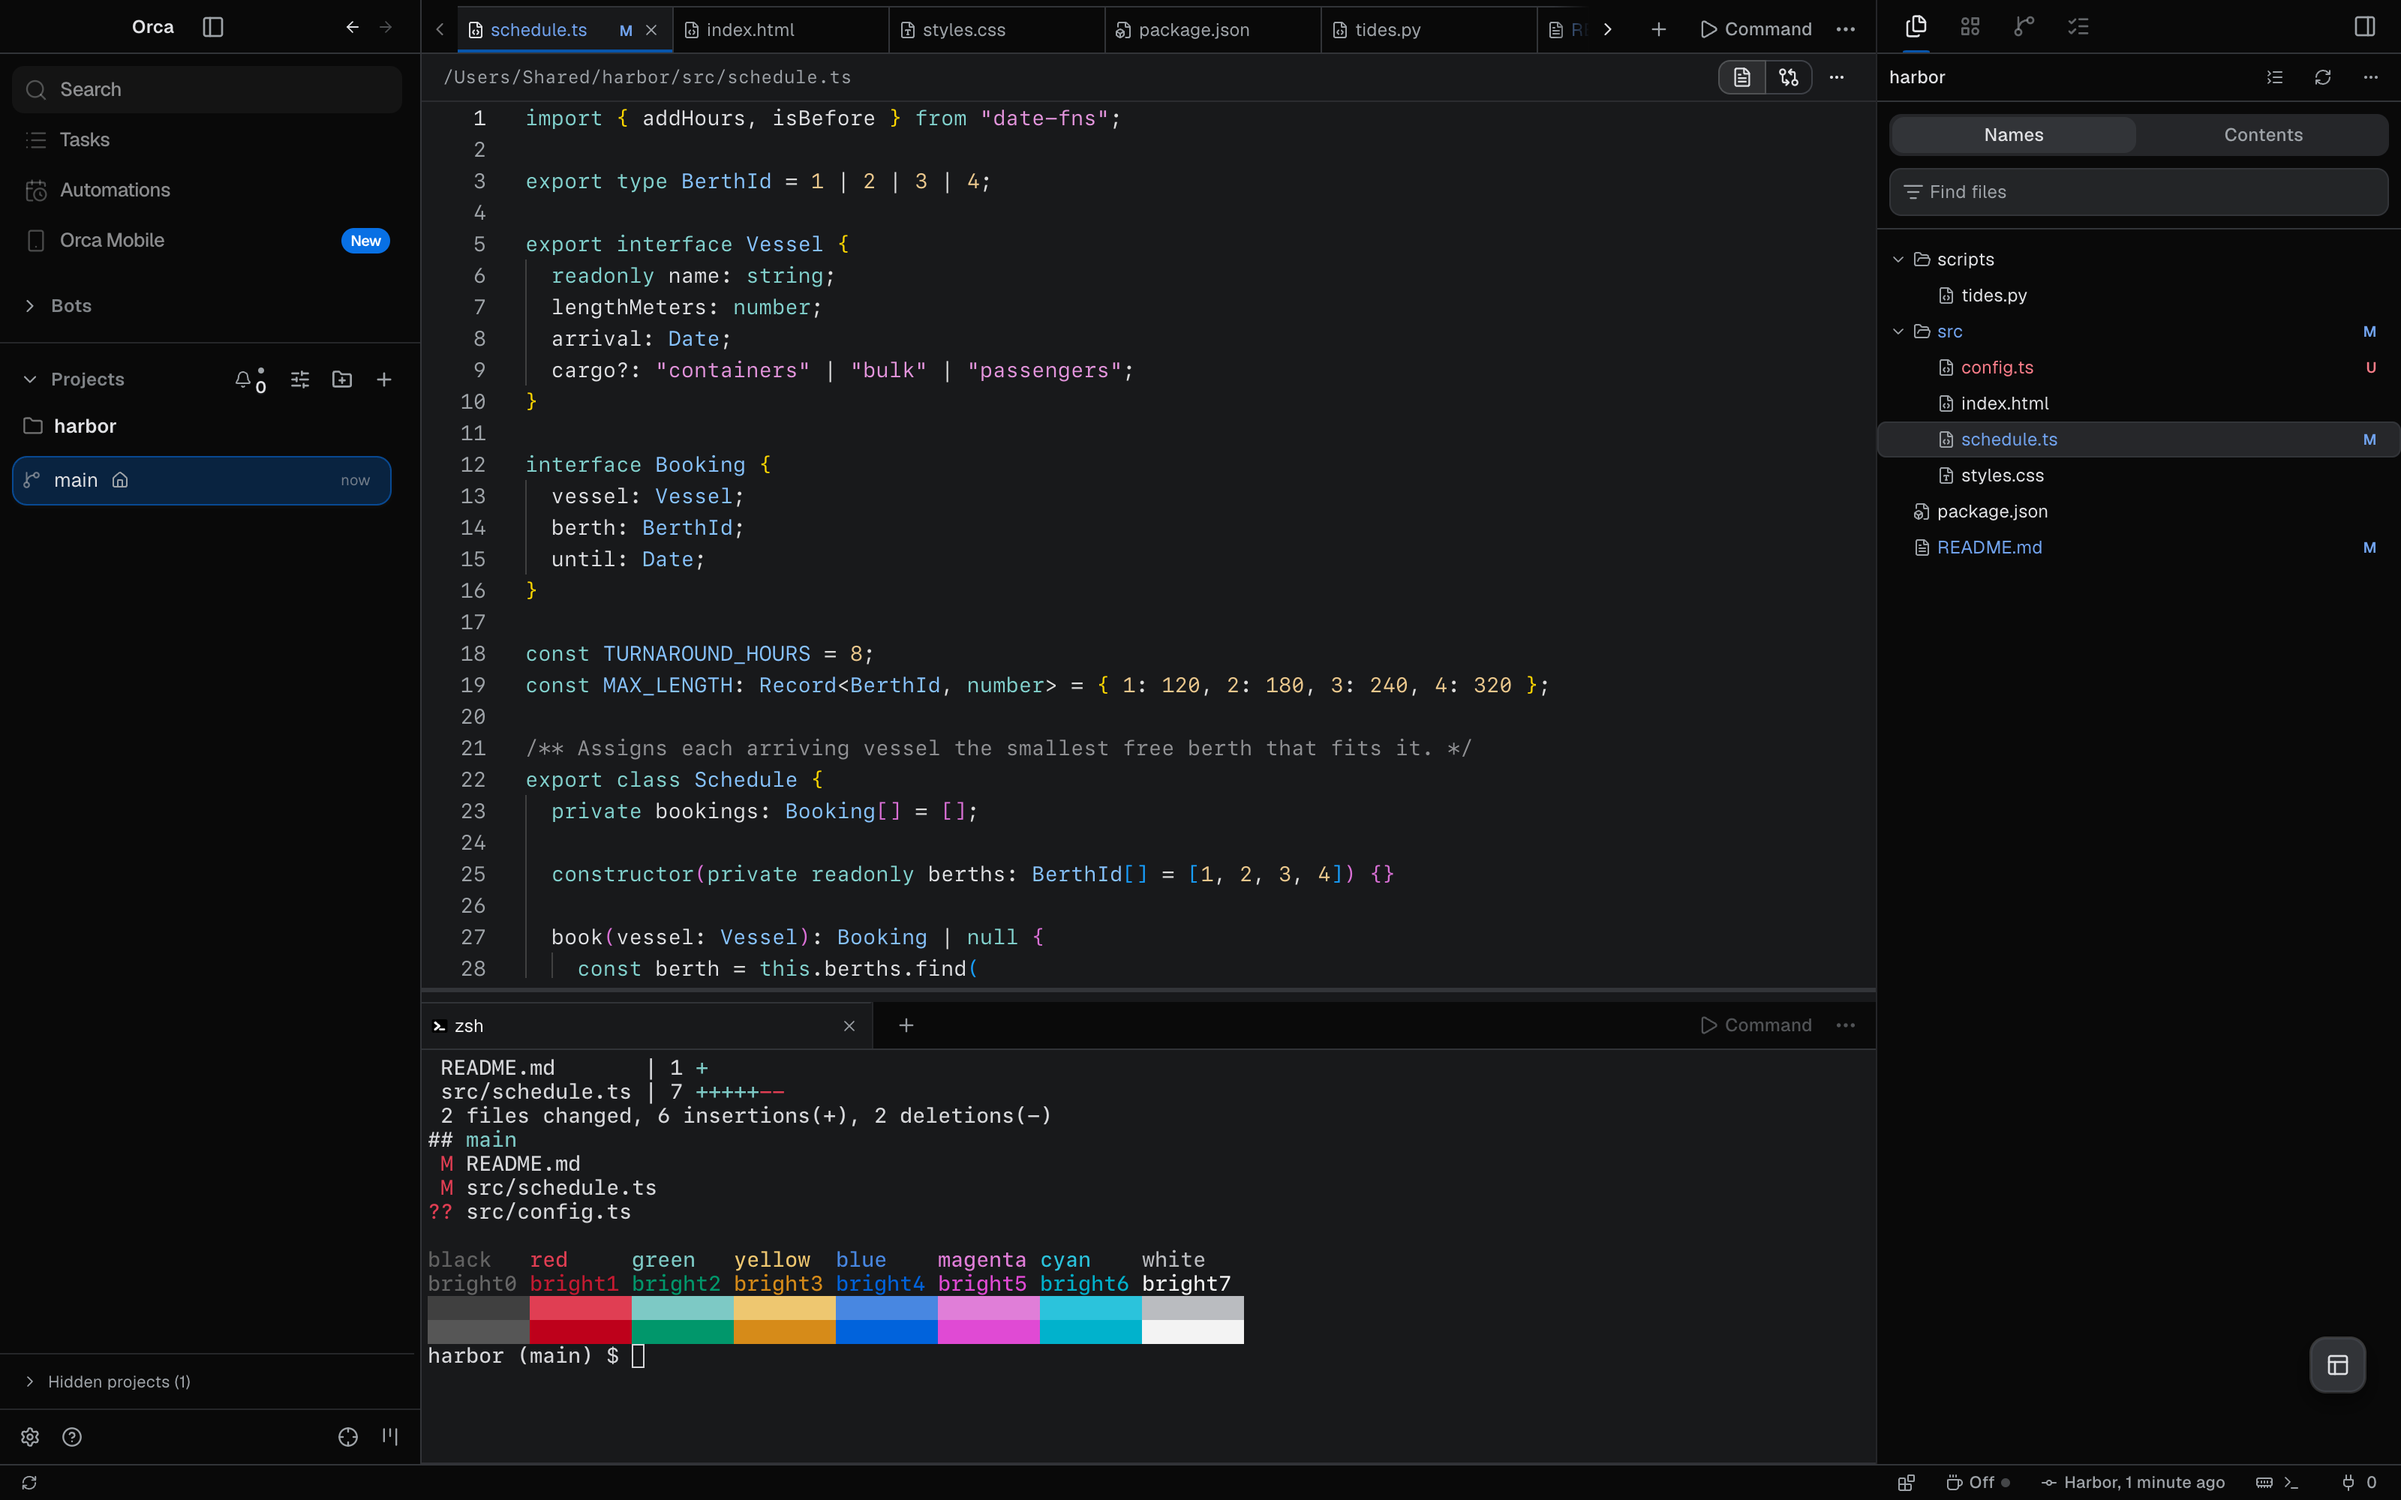
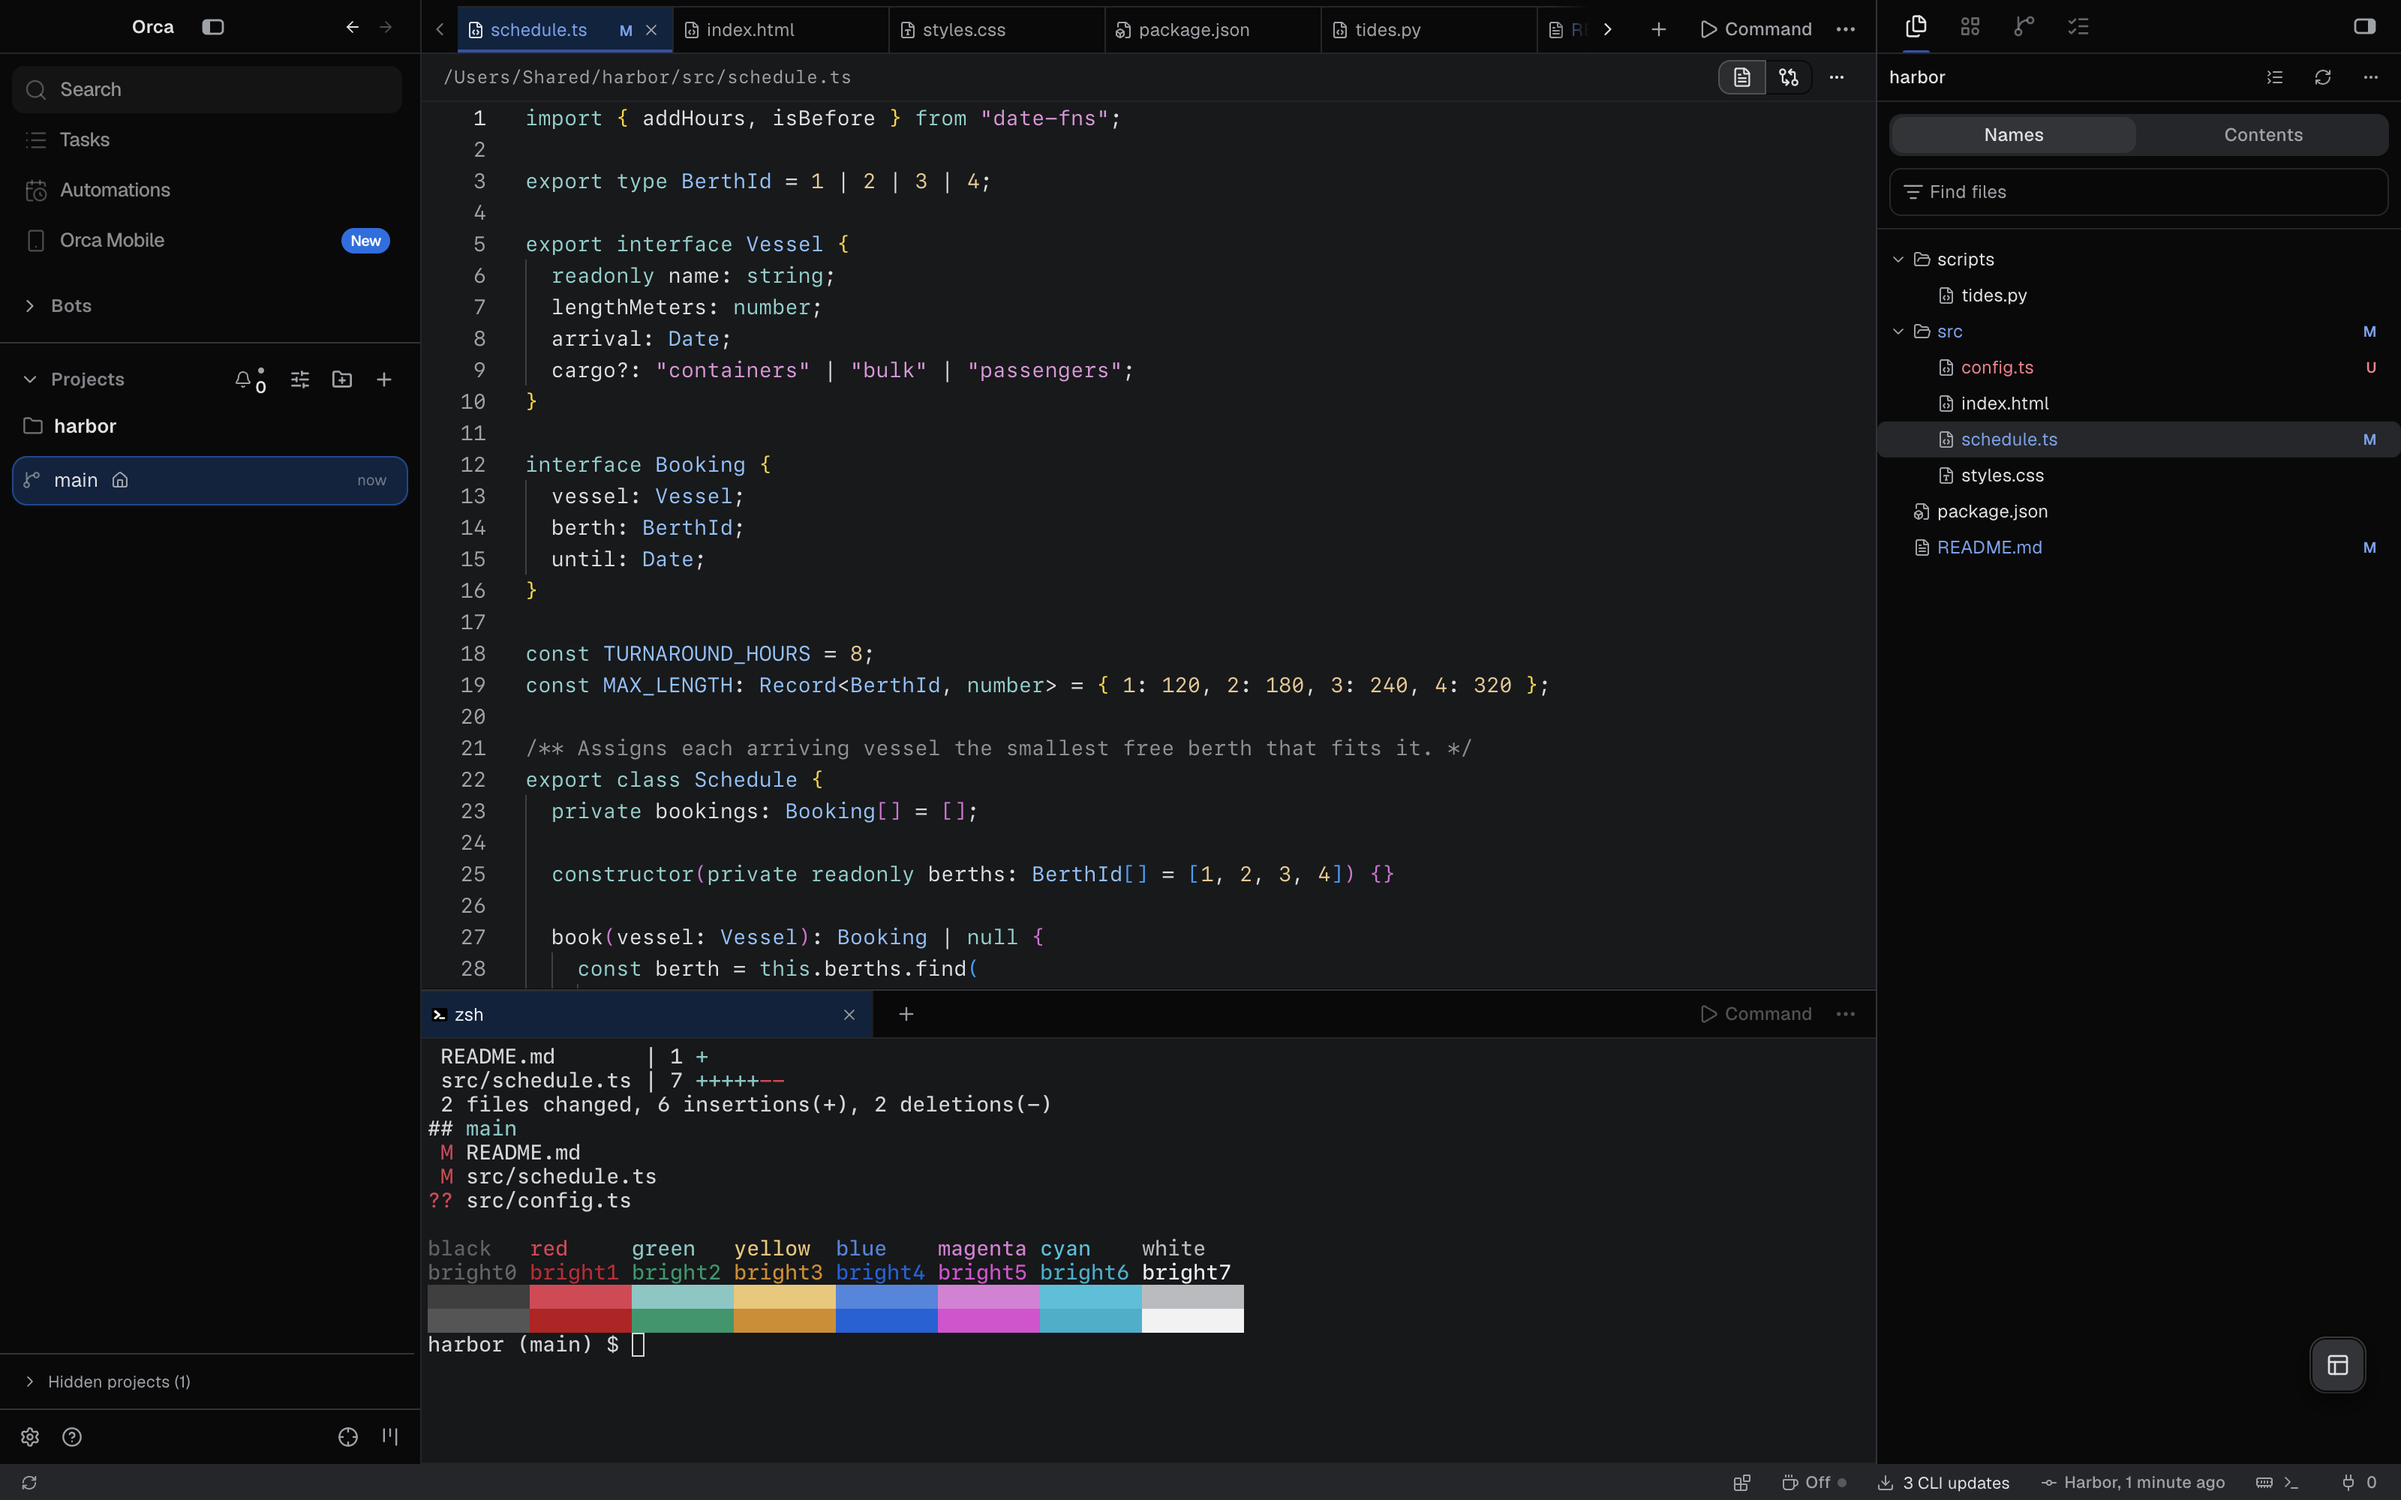
Armada for Orca 1.1.0

diff --git a/CHANGELOG.md b/CHANGELOG.md
@@ -1,0 +1,29 @@
+# Changelog
+
+## 1.1.0 (2026-11-23)
+
+- The app is darker: the chat and the area around the editor take the color of the sidebars,
+  and the editor stays a step lighter.
+- Cards, and the status bar with them, are a step lighter than before, level with menus.
+- The active tab has a navy fill and a brighter line.
+- The selected item in the workspace sidebar and in the settings navigation is gray, not blue.
+- Borders are quieter in the main area and a little stronger in the sidebars. Input fields have
+  a darker border.
+- Links are a deeper blue.
+- Selected text in the chat has the same blue tint as in the editor.
+- Chart colors are shades of one blue, from light to dark. Mermaid diagrams take their colors
+  from them, and their boxes are now a deep blue where they were a muddy brown.
+- The plugin's page shows a chat with an agent among its screenshots.
+
+## 1.0.2 (2026-11-20)
+
+- The plugin's page shows the theme's own cover and screenshots.
+
+## 1.0.1 (2026-11-20)
+
+- The release holds only the theme's files, so Orca's plugin directory lists it without a
+  review.
+
+## 1.0.0 (2026-11-19)
+
+- First release: the app theme, its code colors and the terminal colors.

diff --git a/README.md b/README.md
@@ -21,10 +21,11 @@ Then choose **Armada** under Settings → Appearance. Its terminal colors are of
 
 | | |
 | --- | --- |
-| ![TypeScript](screenshots/typescript.png) | ![HTML](screenshots/html.png) |
+| ![A chat](screenshots/chat.png) | ![TypeScript](screenshots/typescript.png) |
+| ![HTML](screenshots/html.png) | ![The terminal](screenshots/terminal.png) |
 | ![CSS](screenshots/css.png) | ![JSON](screenshots/json.png) |
 | ![Python](screenshots/python.png) | ![Markdown](screenshots/markdown.png) |
-| ![A diff](screenshots/diff.png) | ![The terminal](screenshots/terminal.png) |
+| ![A diff](screenshots/diff.png) | |
 
 ## License
 
